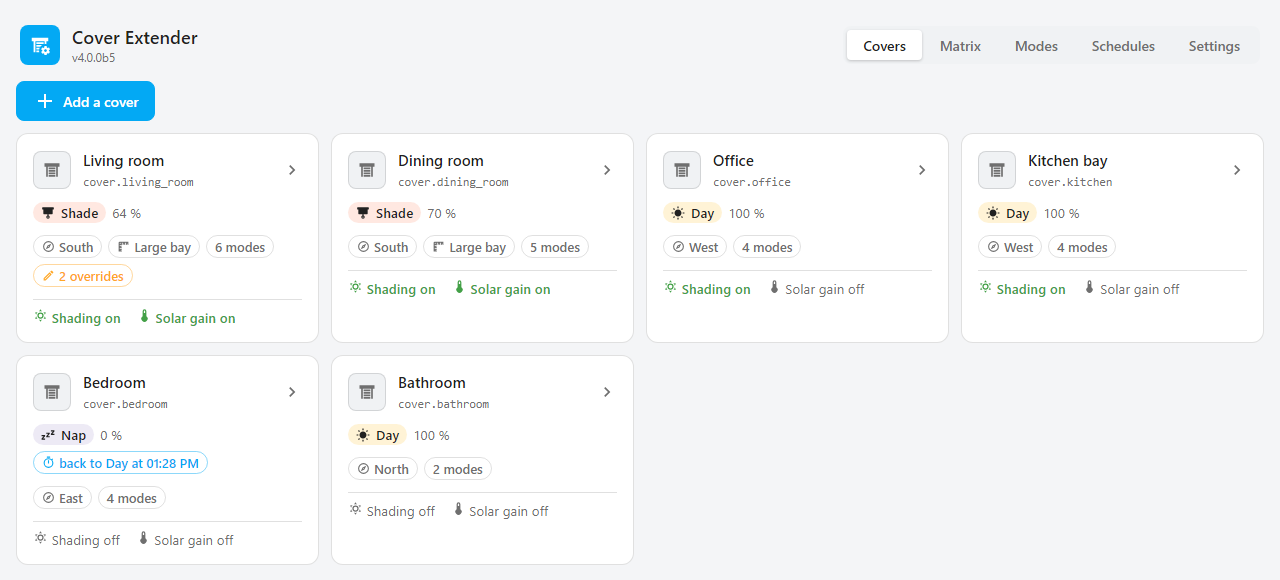
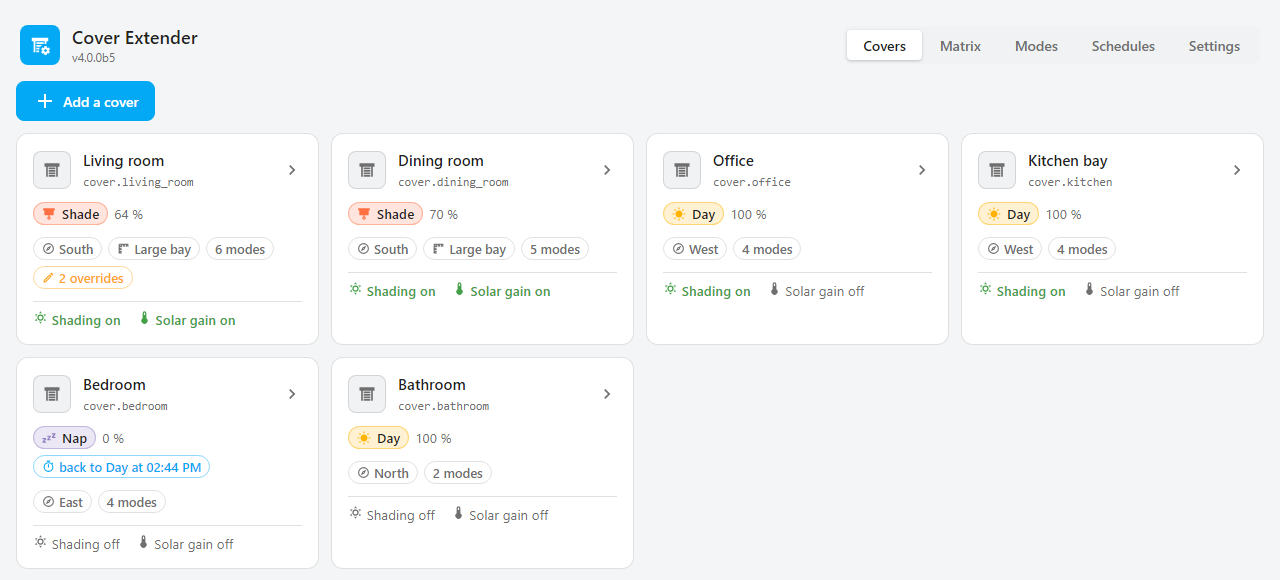
Panel: timed-mode end in Home Assistant's time zone; docs and screenshots
- The end time of a timed mode on the cover cards is formatted in
  Home Assistant's time zone (hass.config.time_zone), like the
  schedules; it followed the browser's, so a phone in another zone
  showed another hour.
- README: the "Applying a mode" diagram starts with the grouped-request
  step (left alone, taken at the end of a timed mode, fallback mode,
  force); a cover's own selector skips it.
- CHANGELOG: the panel rework moves to its own Changed section.
- Screenshots of the covers tab and the cover editor regenerated with
  the coloured mode chip.

diff --git a/custom_components/cover_extender/frontend/cover-extender-admin.js b/custom_components/cover_extender/frontend/cover-extender-admin.js
@@ -3551,7 +3551,11 @@ class CoverExtenderPanel extends HTMLElement {
     };
     const ends = sel.attributes?.mode_ends_at;
     if (ends) {
-      const at = new Date(ends).toLocaleTimeString(LANG, { hour: "2-digit", minute: "2-digit" });
+      // In the house's time zone, like the schedules (computed by the server):
+      // a browser in another zone would otherwise show another hour.
+      const at = new Date(ends).toLocaleTimeString(LANG, {
+        hour: "2-digit", minute: "2-digit", timeZone: this._hass.config?.time_zone || undefined,
+      });
       chip("timer", "mdi:timer-outline", T.statusTimer(sel.attributes.return_mode, at));
     }
     if (st[ids.lock]?.state === "on") {

diff --git a/CHANGELOG.md b/CHANGELOG.md
@@ -31,6 +31,9 @@ and this project adheres to [Semantic Versioning](https://semver.org/spec/v2.0.0
 - **Priority modes, and `force` on `apply_mode`.** A mode can be flagged **Priority mode** in the panel: it passes the inhibitions, never the safety exclusions (an *Alarm* mode that closes every cover, guest room included). `apply_mode` takes `force: true` for the same effect on one call, which also re-applies the mode on covers already in it. Priority modes carry a chip on their tile and an icon in the matrix header; the mode selectors expose a `priority` flag per mode.
 - **Panel: what each cover is doing.** Each cover card shows its current mode and position, then whatever holds it back: a running timed mode (*back to Day at 21:30*), the lock with the remembered position, a safety exclusion or an inhibition that is on. Live, from Home Assistant's states.
 - **Panel: the generated entities are listed**, not only counted, under Settings.
+- **The entities show under their cover.** Each helper is attached to its cover's device, so it appears on that device's page and under the integration, instead of nowhere. It is linked with `Entity.device_entry`, which does not add Cover Extender to a device another integration owns. A cover without a device has its helpers on the Cover Extender hub device, named after the cover. `select.cx_modes` lives on the hub device too.
+
+### Changed
 - **Panel: the editors are reorganised around the questions they answer.** Same settings, nothing removed. Every editor opens on one identity strip (no more title repeating the name field), then cards in two columns on a wide screen, one on a phone, each with a one-line hint and the detail in an (i) tooltip.
   - **Mode**: name, icon and colour on one line with a live preview of the selector chip; the colour is a colour wheel plus its hex code, instead of the full-width colour bar. Behaviour as three buttons (*Fixed*, *Shading*, *Solar gain*); *While this mode is on* (lock, limited duration as "For 60 min, then…"); *Applied to several covers* (the modes it leaves alone, ticked and counted, and what to do with the covers the mode is not linked to); priority and hiding under *Advanced*, open by itself when one of them is on.
   - **Cover**: entity, facade and template on one line with the cover's current state; safety exclusions and inhibitions side by side under *What holds the cover back*, as chips showing each entity's state; the behaviour fields as four cards, every value a typed box plus a short slider and a hint, a side-view sketch of the window for the geometry and a sketch of the angles for the detection, the activation switch in each card's header, minimum and maximum sun elevation as one range with two thumbs, and, under a template, each value says where it comes from: inherited in a dashed grey box with a link, the cover's own in amber with the template's value (also marked on the slider) and a "back to the template" button; each card counts both, the head shows a legend and an *Overrides only* filter. A link opens the cover's template.
@@ -40,9 +43,9 @@ and this project adheres to [Semantic Versioning](https://semver.org/spec/v2.0.0
   - **Schedules**: one line on top, the detail in a tooltip; each schedule shows its time today and whether it is on, the reference ("follows the sunset, today 19:08") and an *On* switch in the header; the six settings in three groups (curve over the year, bounds in legal time, crossings folded under *Fine-tune*), bounds and crossings switched like the rest; the chart unchanged. The per-cover table is grouped by facade, with an *All covers* row and the covers that differ from the others highlighted, each list edged with its mode's colour; the save bar shows only once something changed.
   - **One save bar everywhere**: every editor, the general settings and the schedules end on the same bar, stuck to the bottom of the screen (Delete on the left when there is one, then what is pending, Cancel and Save). Cancel and Save stay greyed out until something changes and go back to grey when the change is undone.
   - On a phone the tab bar scrolls instead of widening the page, and the schedule table shrinks to fit.
-- **The entities show under their cover.** Each helper is attached to its cover's device, so it appears on that device's page and under the integration, instead of nowhere. It is linked with `Entity.device_entry`, which does not add Cover Extender to a device another integration owns. A cover without a device has its helpers on the Cover Extender hub device, named after the cover. `select.cx_modes` lives on the hub device too.
 
 ### Fixed
+- Panel: the end time of a timed mode on the cover cards is shown in Home Assistant's time zone, like the schedules; it followed the browser's, so a phone in another zone showed another hour.
 - Panel: the mode chip on the cover cards wears the mode's colour (icon, tint and edge), as on the mode tiles and in the matrix; it was a faint tint only.
 - Panel: the template field of the cover editor is labelled "Template" ("Gabarit"), capitalized like the other fields.
 - **Actions keep working with Home Assistant 2026.10** (also released alone as 3.1.3). The targeted actions passed `hass` to `async_extract_entity_ids`, which Home Assistant removes in Core 2026.10.

diff --git a/README.md b/README.md
@@ -594,10 +594,22 @@ triggers:
 
 ### Applying a mode
 
+A choice made on one cover's own selector starts at the second step: only grouped requests go through the first one (see [who replaces whom](#who-replaces-whom)).
+
 ```
                      ┌────────────────────────┐
                      │        APPLY MODE      │
                      └────────────────────────┘
+                                  │
+                                  ▼
+        ┌─────────────────────────────────────────────────┐
+        │ Grouped request (global selector, schedule,     │
+        │ apply_mode) without force?                      │
+        │ - the cover is in a mode this one leaves alone: │
+        │   skipped (in a timed mode: taken at its end)   │
+        │ - the mode is not linked to the cover: its      │
+        │   fallback mode instead, else skipped           │
+        └─────────────────────────────────────────────────┘
                                   │
                                   ▼
                   ┌─────────────────────────────────┐
